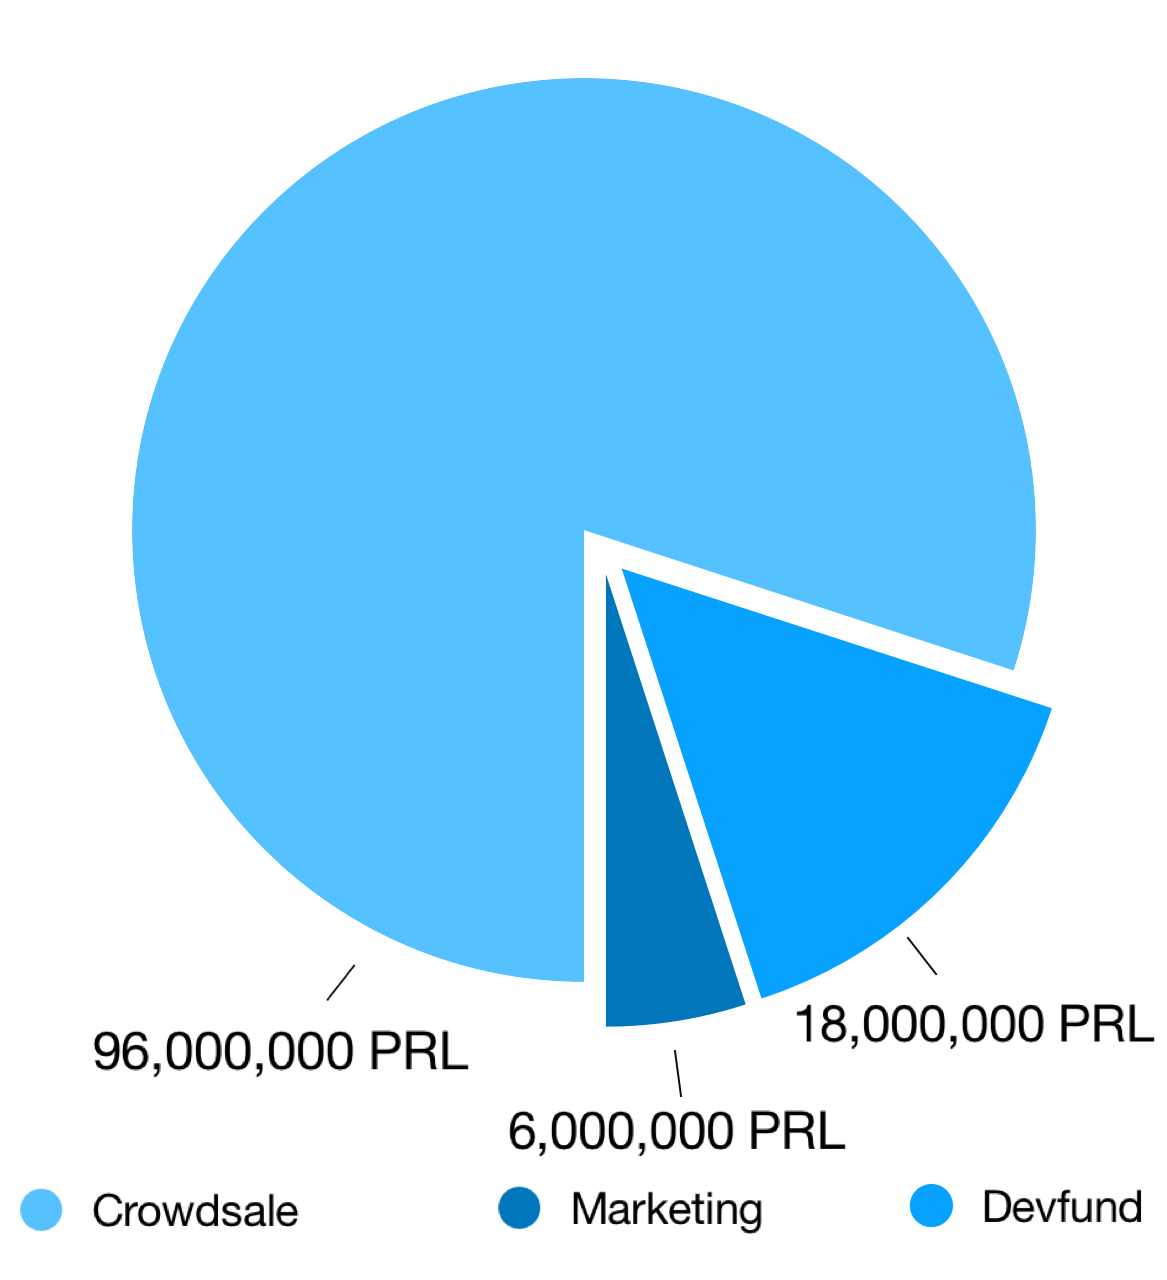
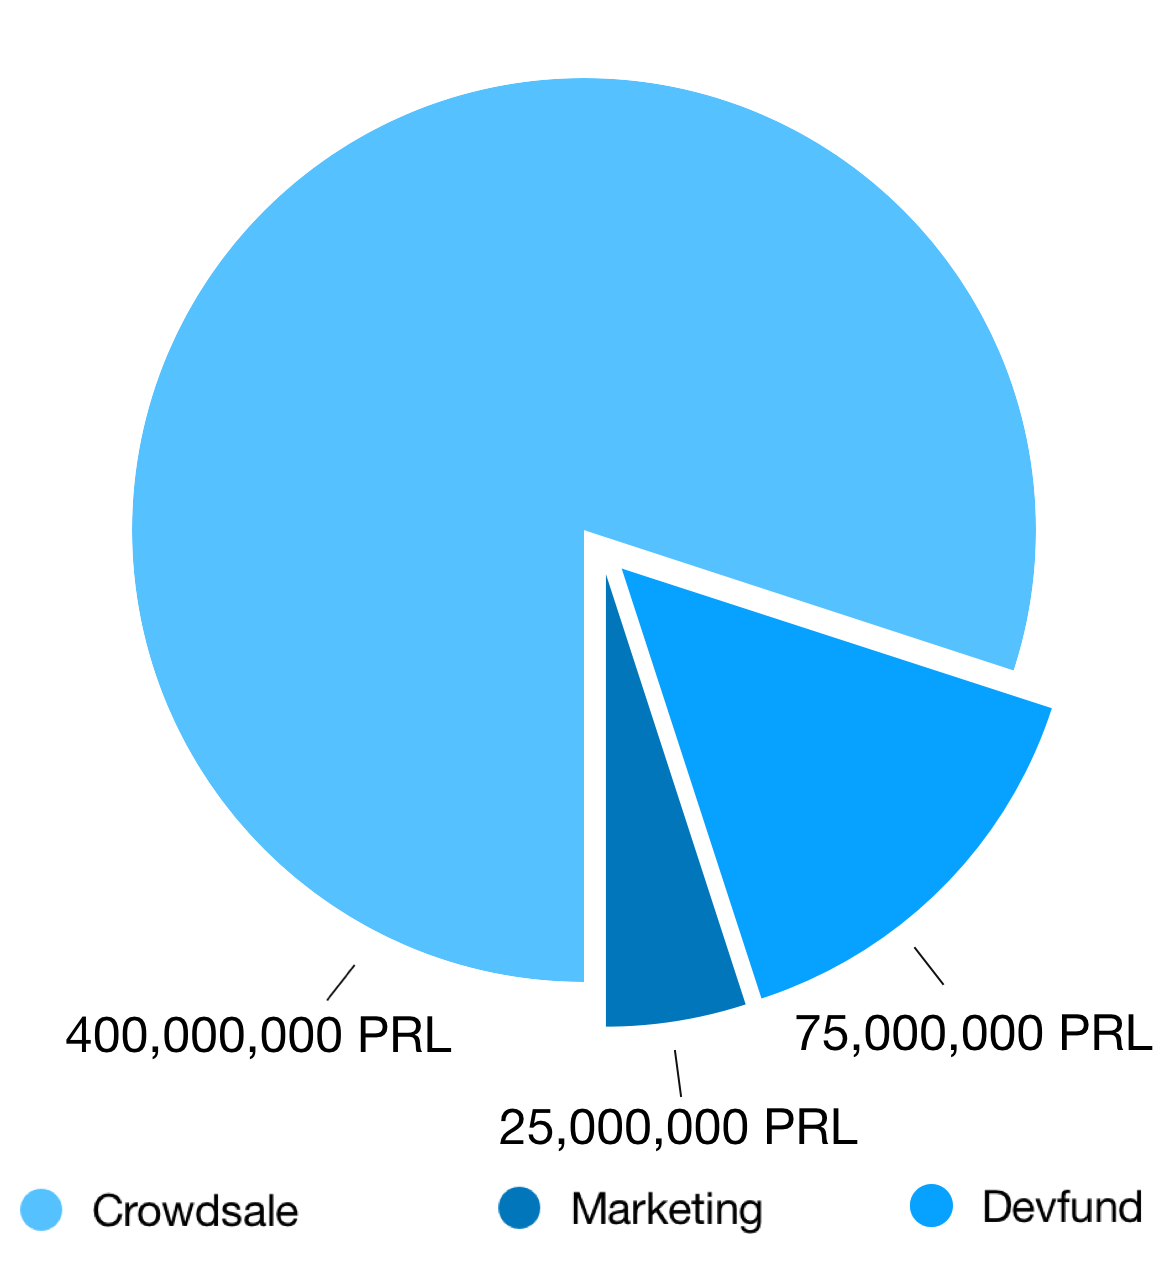
Supply updates

Changed region(s): [[0.0617, 0.7812, 0.401, 0.8438], [0.4319, 0.8438, 0.7404, 0.9062], [0.6787, 0.7812, 0.9871, 0.8438]]

diff --git a/index.html b/index.html
@@ -448,12 +448,12 @@
     <div id="launch_address" class="launch_address hide_final" style="transition-delay: 1.6s;">0x________________________________________</div>
     <div class="launch_container hide_final" style="transition-delay: 1.8s;">
         <div class="launch_info" style="position:absolute;height:100%;width:60%;left:0;">
-            120 million PRL total supply<br>
-            Sale lasts Oct 21 - Nov 2<br>
-            19,200 ETH hard cap<br>
+            500 million PRL total supply<br>
+            Sale lasts Oct 21 - Nov 14<br>
+            80,000 ETH hard cap<br>
             1 ETH = 5,000 PRL<br>
             1 PRL = 1GB/1 year
-            <img class="launch_chart_img" src="oy_token.png?5" />
+            <img class="launch_chart_img" src="oy_token.png?6" />
             <div class="launch_details2" style="position:absolute;left:0;width:45%;">
                 <span style="font-weight:bold;">Use of Funds Raised</span><br>
                 Funds from presales and the mainsale are used on a discretionary basis to:<br><br>
@@ -463,7 +463,7 @@
             </div>
         </div>
         <div class="launch_details" style="position:absolute;top:2%;height:100%;width:60%;right:0;text-align:right;">
-            Crowdsale lasts until 96 million PRL hard cap is<br> reached or 12 days, whichever comes first.<br>
+            Crowdsale lasts until 400 million PRL hard cap is<br> reached or 24 days, whichever comes first.<br>
             Unsold crowdsale PRL is destroyed.<br>
             Be cautious of phishing attempts.<br>
             Do not send from exchanges.<br>
@@ -501,14 +501,15 @@
 </div>
 <div id="oy_extra_space"></div>
 <script type="text/javascript">
-    function oy_access(oy_code) {
+    function oy_access(oy_code, oy_noscroll) {
+        if (typeof oy_noscroll === 'undefined') oy_noscroll = false;
         $.post("https://oyster.ws/tokeninternal/oy_access.php", {oy_code: oy_code},
             function(data, status) {
                 if (status==="success"&&data!=="oy_reject") {
                     document.getElementById('oy_extra_space').innerHTML = data;
                     oy_countdown("countdown_extra", parseFloat(document.getElementById('extra_timeset').innerHTML));
                     document.getElementById('access_go_button').style.backgroundColor = "#46599A";
-                    oy_scroll(3);
+                    if (oy_noscroll===false) oy_scroll(3);
                 }
                 else {
                     document.getElementById('access_go_button').style.backgroundColor = "#e61000";
@@ -601,6 +602,12 @@
         }
     }
     (function () {
+
+        var split = location.search.replace('?', '').split('=');
+        if (split[0]==="presale"&&split[1].length>4) {
+            document.getElementById("access_input").value = split[1];
+            oy_access(split[1], true);
+        }
 
         'use strict';
 
